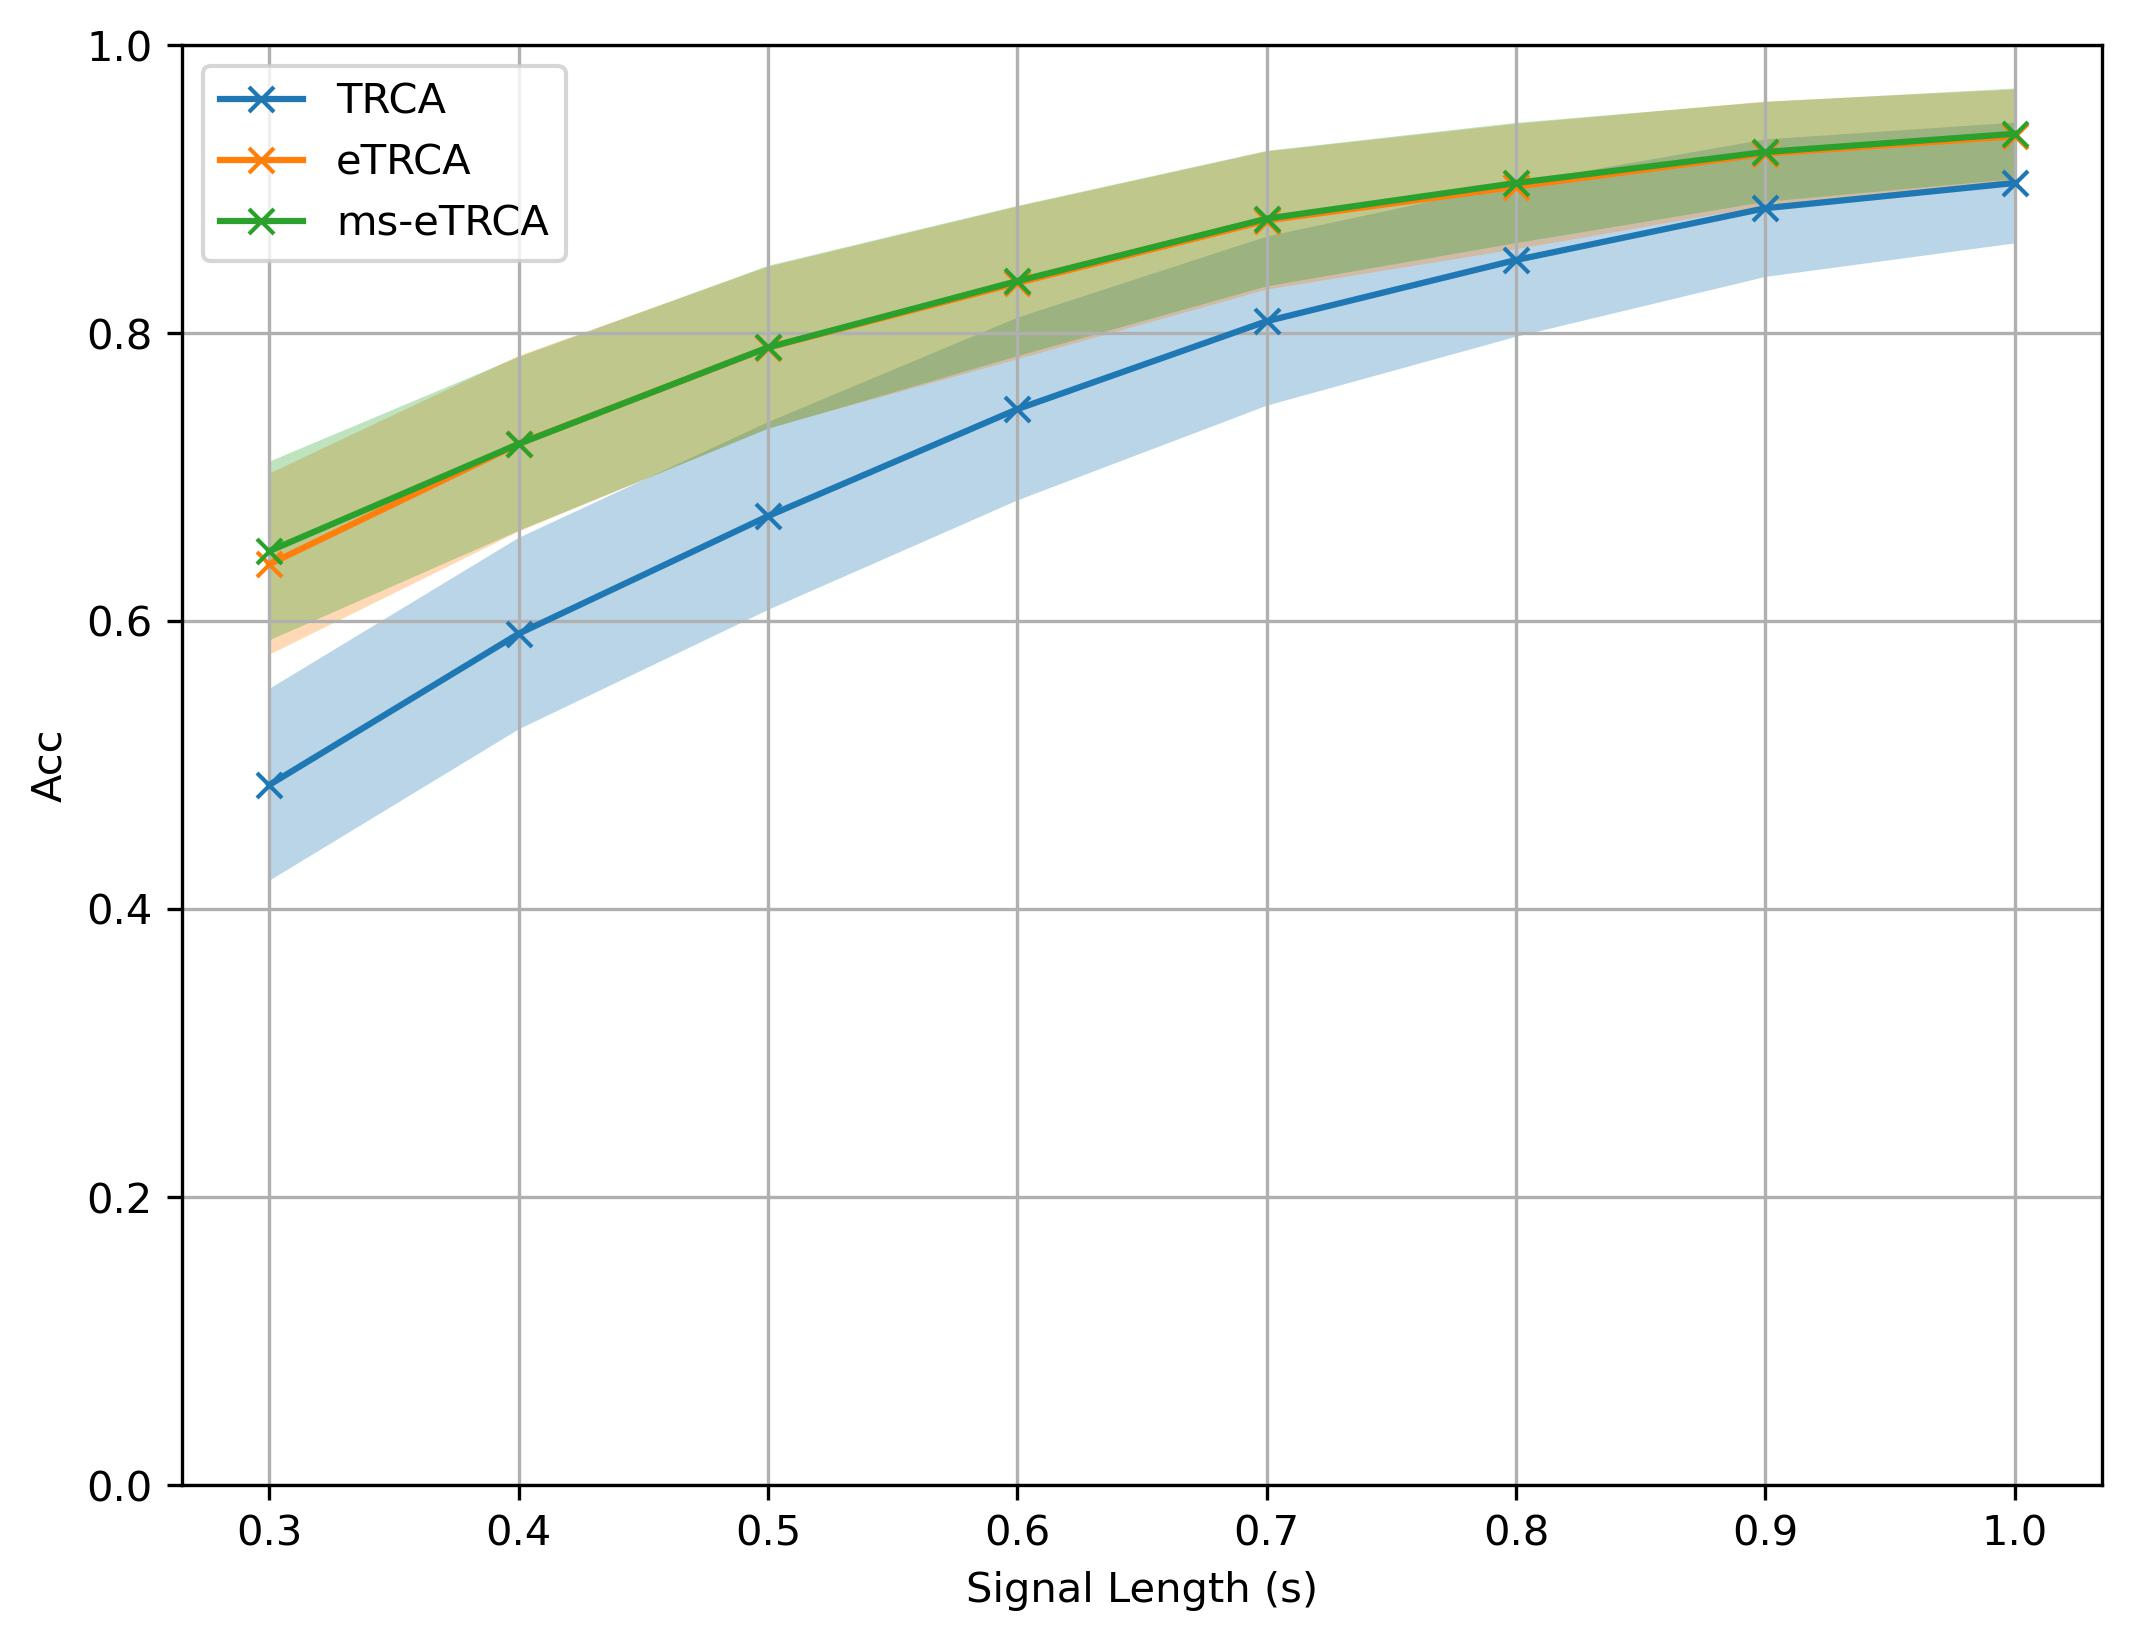
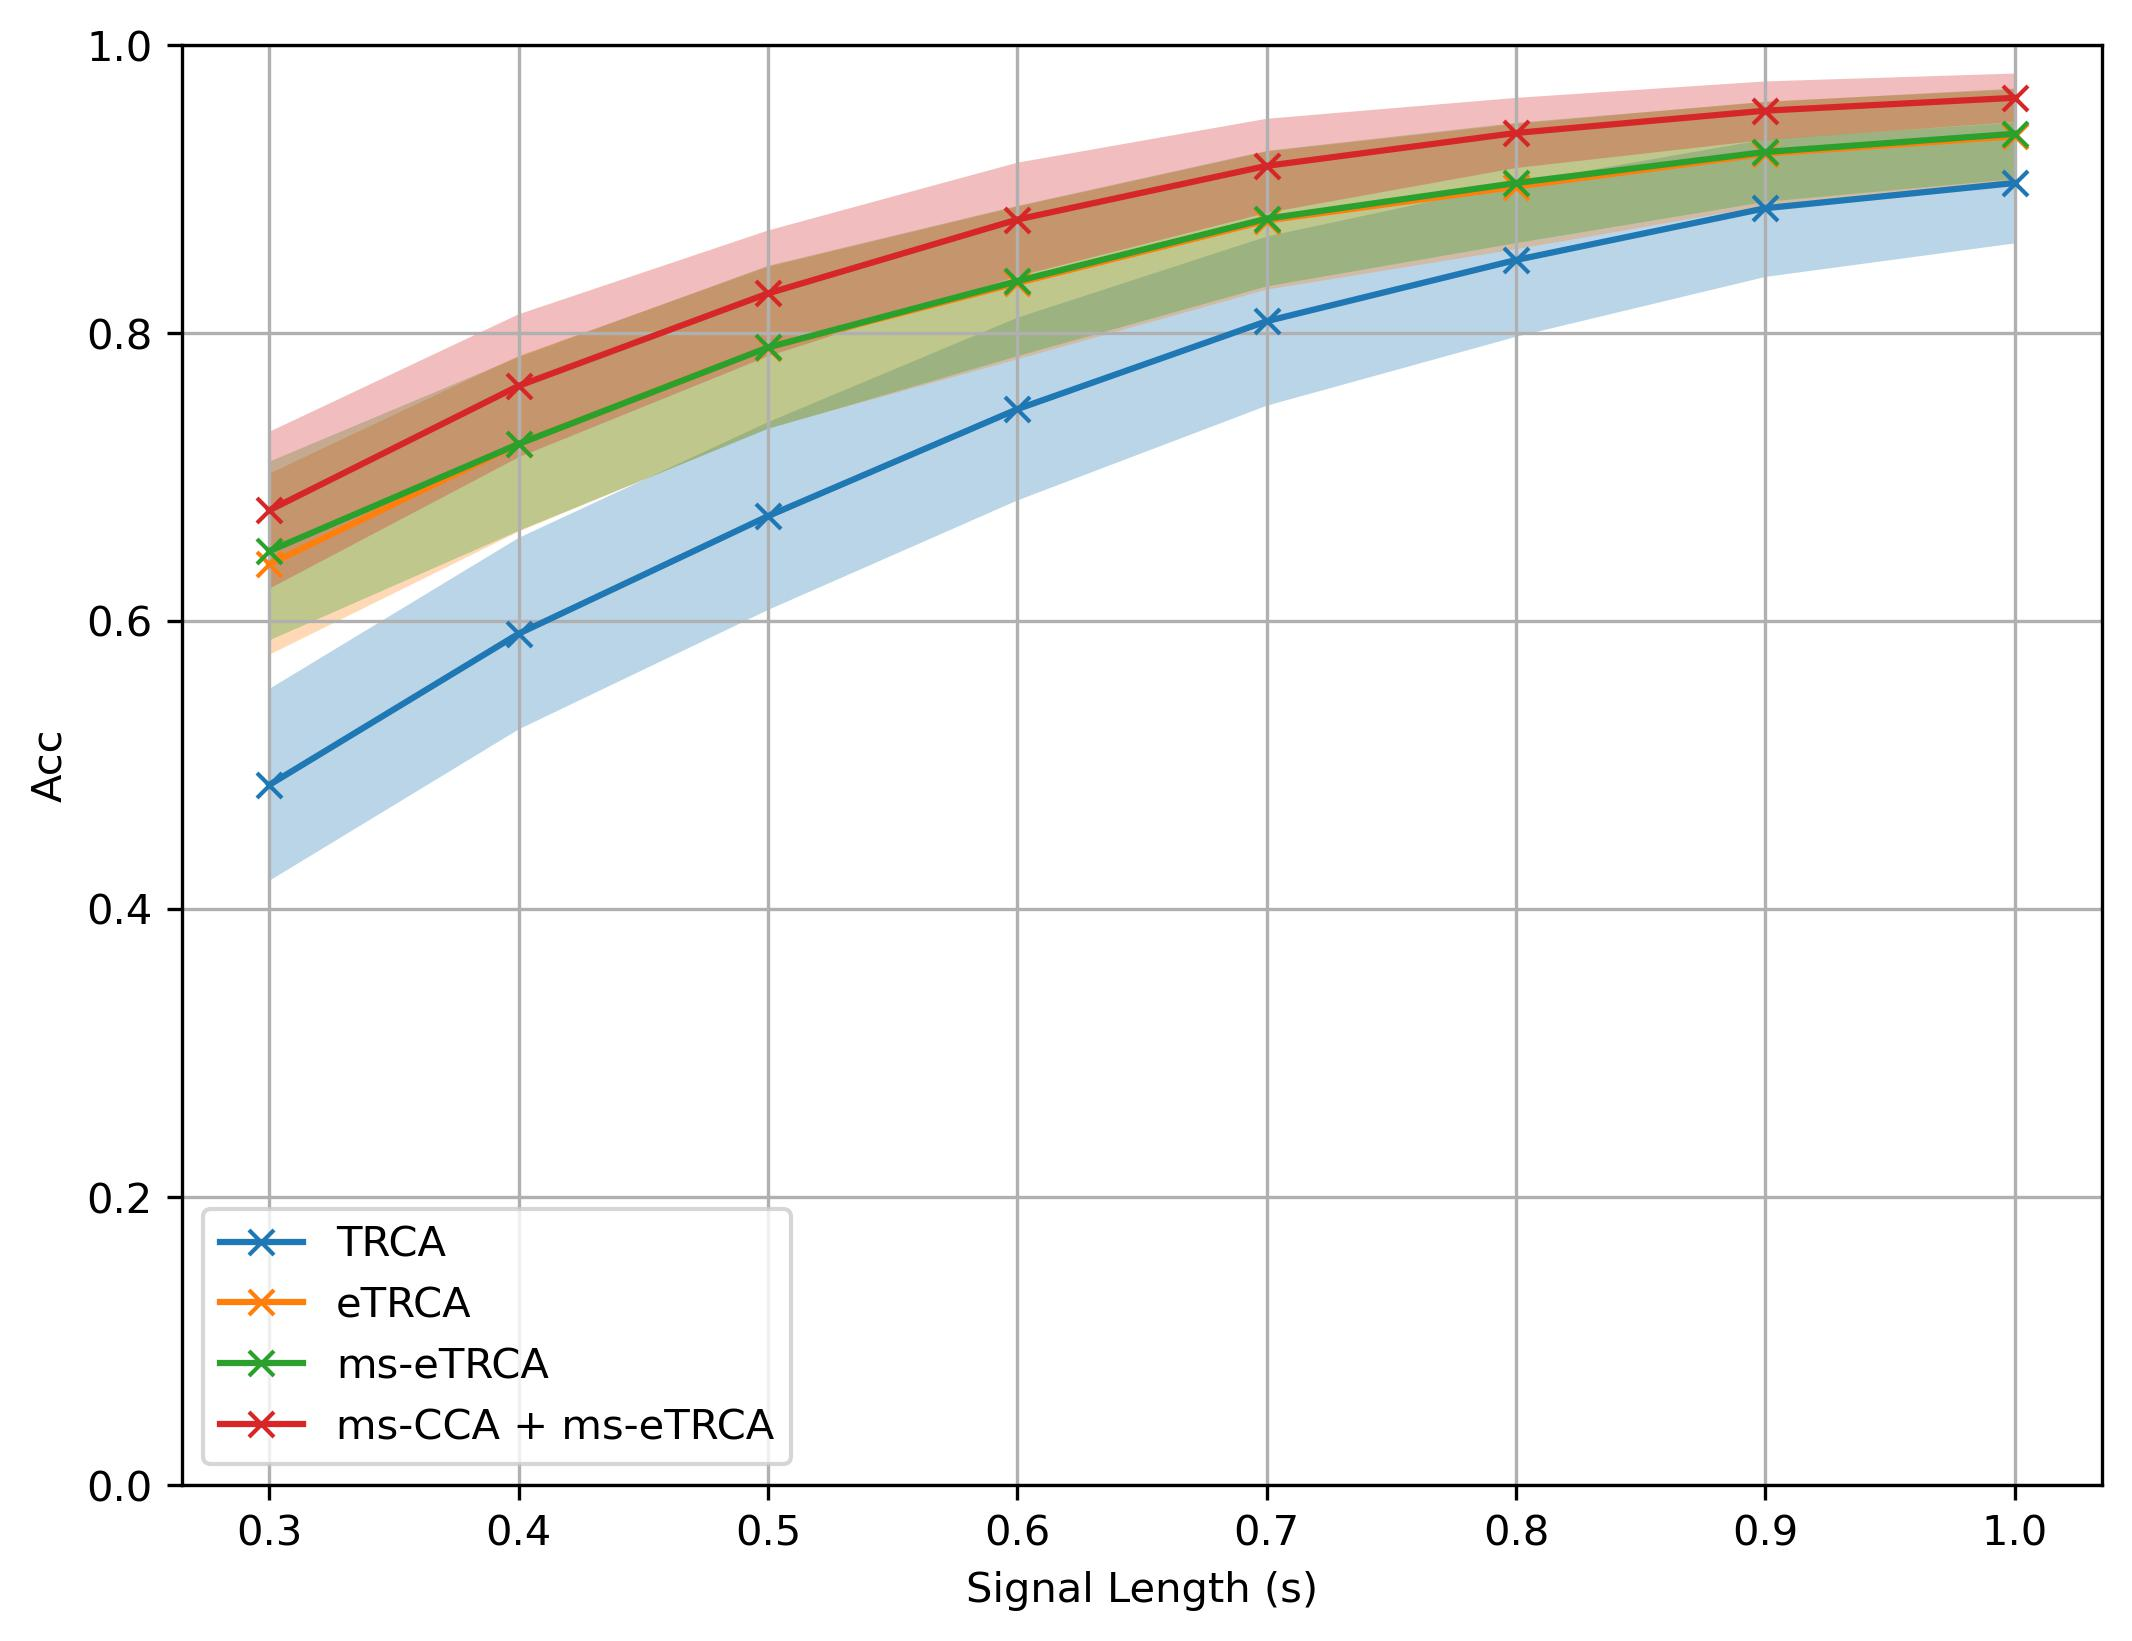
Update TRCA in benchmark and beta datasets results

Changed region(s): [[0.0929, 0.0311, 0.9597, 0.3729], [0.0929, 0.7459, 0.3715, 0.9013]]

diff --git a/demo/TRCA_benchmarkdataset.py b/demo/TRCA_benchmarkdataset.py
@@ -5,7 +5,7 @@ sys.path.append('..')
 from SSVEPAnalysisToolbox.datasets.benchmarkdataset import BenchmarkDataset
 from SSVEPAnalysisToolbox.utils.benchmarkpreprocess import preprocess, filterbank, suggested_ch, suggested_weights_filterbank
 # from SSVEPAnalysisToolbox.algorithms.cca import ECCA
-from SSVEPAnalysisToolbox.algorithms.trca import TRCA, ETRCA, MSETRCA
+from SSVEPAnalysisToolbox.algorithms.trca import TRCA, ETRCA, MSETRCA, MSCCA_and_MSETRCA
 from SSVEPAnalysisToolbox.evaluator.baseevaluator import BaseEvaluator, gen_trials_onedataset_individual_diffsiglen
 from SSVEPAnalysisToolbox.evaluator.performance import cal_performance_onedataset_individual_diffsiglen
 from SSVEPAnalysisToolbox.utils.io import savedata, loaddata
@@ -28,6 +28,7 @@ dataset_container = [
 # Prepare train and test trials
 # tw_seq = [i*0.25 for i in range(1,4+1,1)]
 tw_seq = [i/10 for i in range(3,11)]
+# tw_seq = [0.3, 0.5]
 trial_container = gen_trials_onedataset_individual_diffsiglen(dataset_idx = 0,
                                                              tw_seq = tw_seq,
                                                              dataset_container = dataset_container,
@@ -44,7 +45,8 @@ model_container = [
                 #    ECCA(weights_filterbank = weights_filterbank),
                    TRCA(weights_filterbank = weights_filterbank),
                    ETRCA(weights_filterbank = weights_filterbank),
-                   MSETRCA(n_neighbor = 2, weights_filterbank = weights_filterbank)
+                   MSETRCA(n_neighbor = 2, weights_filterbank = weights_filterbank),
+                   MSCCA_and_MSETRCA(n_neighbor_mscca = 12, n_neighber_msetrca = 2, weights_filterbank = weights_filterbank)
                   ]
 
 # Evaluate models

diff --git a/demo/TRCA_betadataset.py b/demo/TRCA_betadataset.py
@@ -5,7 +5,7 @@ sys.path.append('..')
 from SSVEPAnalysisToolbox.datasets.betadataset import BETADataset
 from SSVEPAnalysisToolbox.utils.benchmarkpreprocess import preprocess, filterbank, suggested_ch, suggested_weights_filterbank
 # from SSVEPAnalysisToolbox.algorithms.cca import ECCA
-from SSVEPAnalysisToolbox.algorithms.trca import TRCA, ETRCA, MSETRCA
+from SSVEPAnalysisToolbox.algorithms.trca import TRCA, ETRCA, MSETRCA, MSCCA_and_MSETRCA
 from SSVEPAnalysisToolbox.evaluator.baseevaluator import BaseEvaluator, gen_trials_onedataset_individual_diffsiglen
 from SSVEPAnalysisToolbox.evaluator.performance import cal_performance_onedataset_individual_diffsiglen
 from SSVEPAnalysisToolbox.utils.io import savedata, loaddata
@@ -44,7 +44,8 @@ model_container = [
                 #    ECCA(weights_filterbank = weights_filterbank),
                    TRCA(weights_filterbank = weights_filterbank),
                    ETRCA(weights_filterbank = weights_filterbank),
-                   MSETRCA(n_neighbor = 2, weights_filterbank = weights_filterbank)
+                   MSETRCA(n_neighbor = 2, weights_filterbank = weights_filterbank),
+                   MSCCA_and_MSETRCA(n_neighbor_mscca = 12, n_neighber_msetrca = 2, weights_filterbank = weights_filterbank)
                   ]
 
 # Evaluate models
